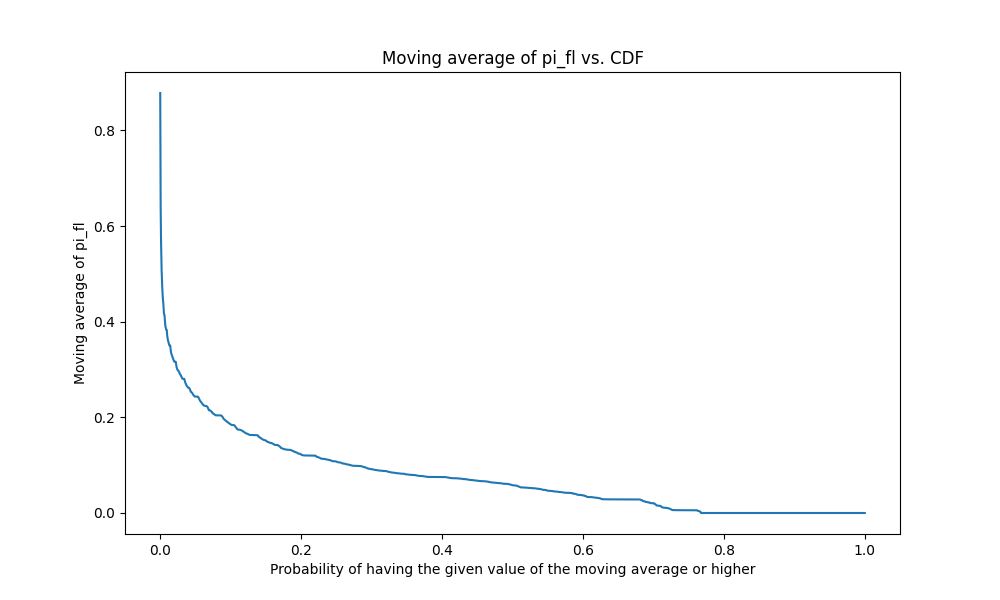
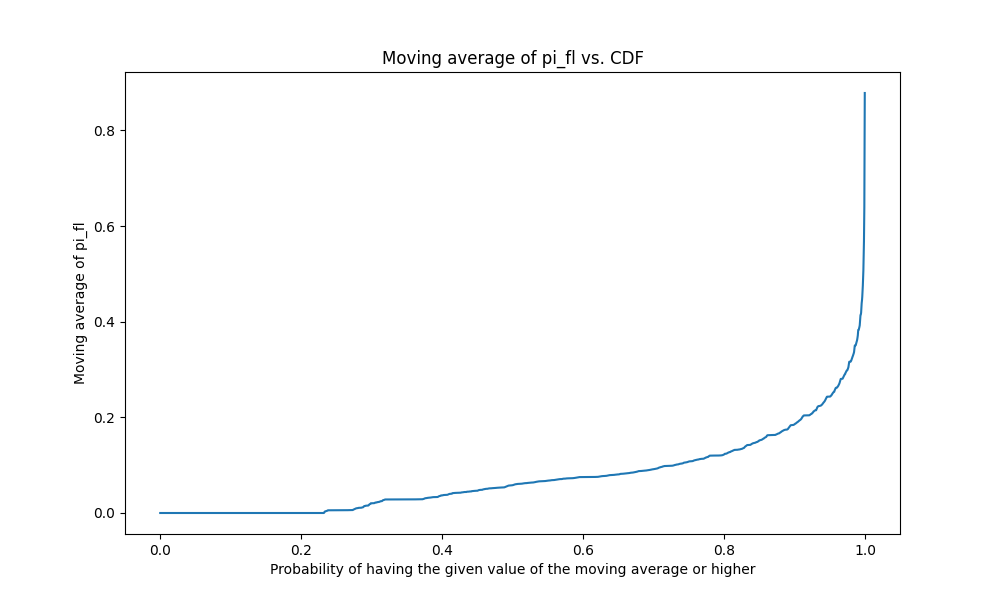
asd

diff --git a/suppress_threshold_attack.py b/suppress_threshold_attack.py
@@ -257,19 +257,20 @@ def make_bin_scatterplot(df_bin, color_by, label, filename, pi_floor):
 def plot_move_avg(df):
     # Sort the DataFrame by the 'pi_fl' column in descending order
     df_sorted = df.sort_values('pi_fl', ascending=False).reset_index(drop=True)
+    win = 50
 
     # Compute the moving average
-    df_sorted['moving_avg'] = df_sorted['pi_fl'].rolling(window=50).mean()
+    df_sorted['moving_avg'] = df_sorted['pi_fl'].rolling(window=win).mean()
 
     # Compute the CDF
-    df_sorted['cdf'] = np.arange(len(df_sorted), 0, -1) / len(df_sorted)
+    df_sorted['cdf'] = (df_sorted.index + 1) / len(df_sorted)
 
     # Plot the moving average against the CDF
     plt.figure(figsize=(10, 6))
     plt.plot(df_sorted['cdf'], df_sorted['moving_avg'])
-    plt.xlabel('Probability of having the given value of the moving average or higher')
-    plt.ylabel('Moving average of pi_fl')
-    plt.title('Moving average of pi_fl vs. CDF')
+    plt.xscale('log')
+    plt.xlabel('Coverage')
+    plt.ylabel(f'Moving Average Precision Improvement\n(floored at 0, window={win})')
 
     # Save the plot
     plt.savefig(os.path.join(attack_path, 'pi_fl_mv_avg.png'))
